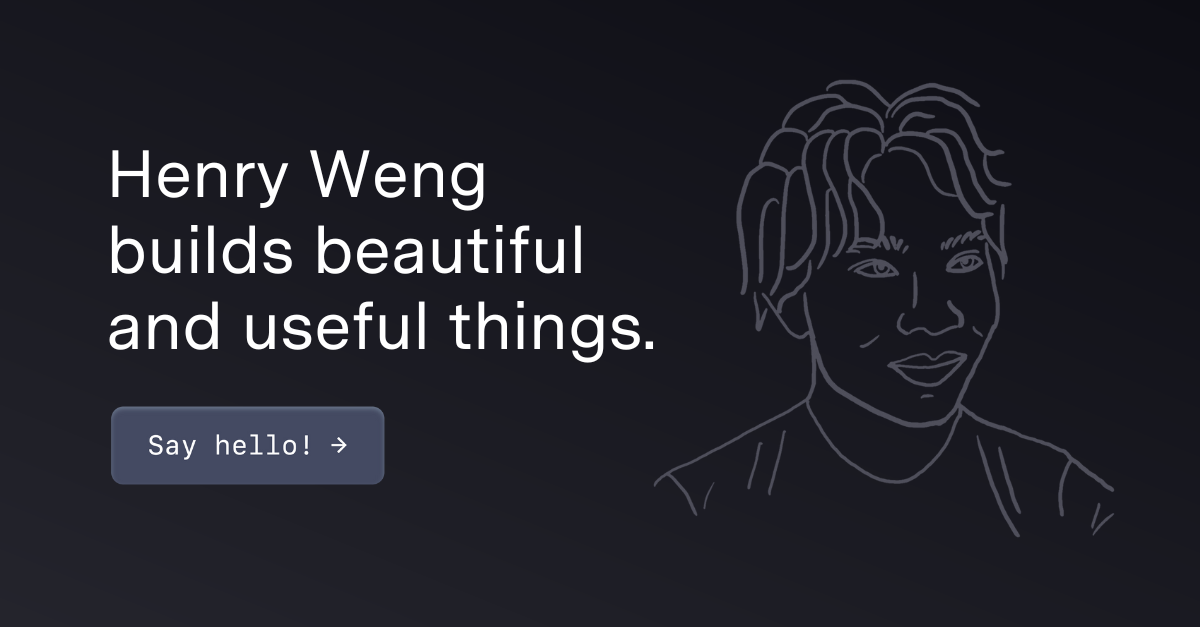
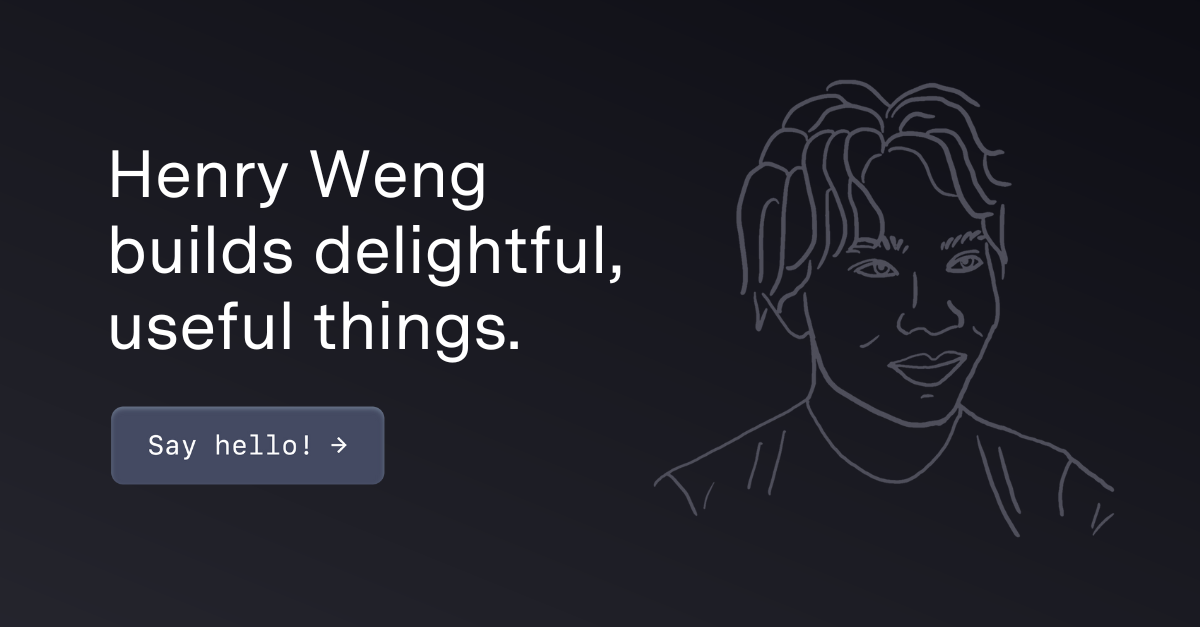
Change copy and preview image

Changed region(s): [[0.0925, 0.4848, 0.555, 0.5758], [0.2467, 0.3636, 0.5242, 0.4545]]

diff --git a/src/sections/hero.js b/src/sections/hero.js
@@ -17,10 +17,12 @@ const Hero = () => {
           <div className="flex flex-col justify-center text-center sm:text-left sm:grid sm:grid-cols-12">
             {/* Header & subheader */}
             <div className="sm:col-span-11 lg:col-span-7 z-10">
-              <h1 className="mx-6 sm:mx-0 hero-header">Hey! I'm Henry.</h1>
-              <h1 className="mx-6 sm:mx-0 hero-header mt-2">
-                I build beautiful and useful things.
-              </h1>
+              <h1 className="mx-6 sm:mx-0 hero-header">Hi, I'm Henry.</h1>
+              <div className="mt-2">
+                <h1 className="mx-6 sm:mx-0 hero-header">
+                  I build delightful, useful things.
+                </h1>
+              </div>
               <div className="flex mt-6 mx-6 sm:mx-0">
                 <p>
                   I study computer science, economics, and statistics at
